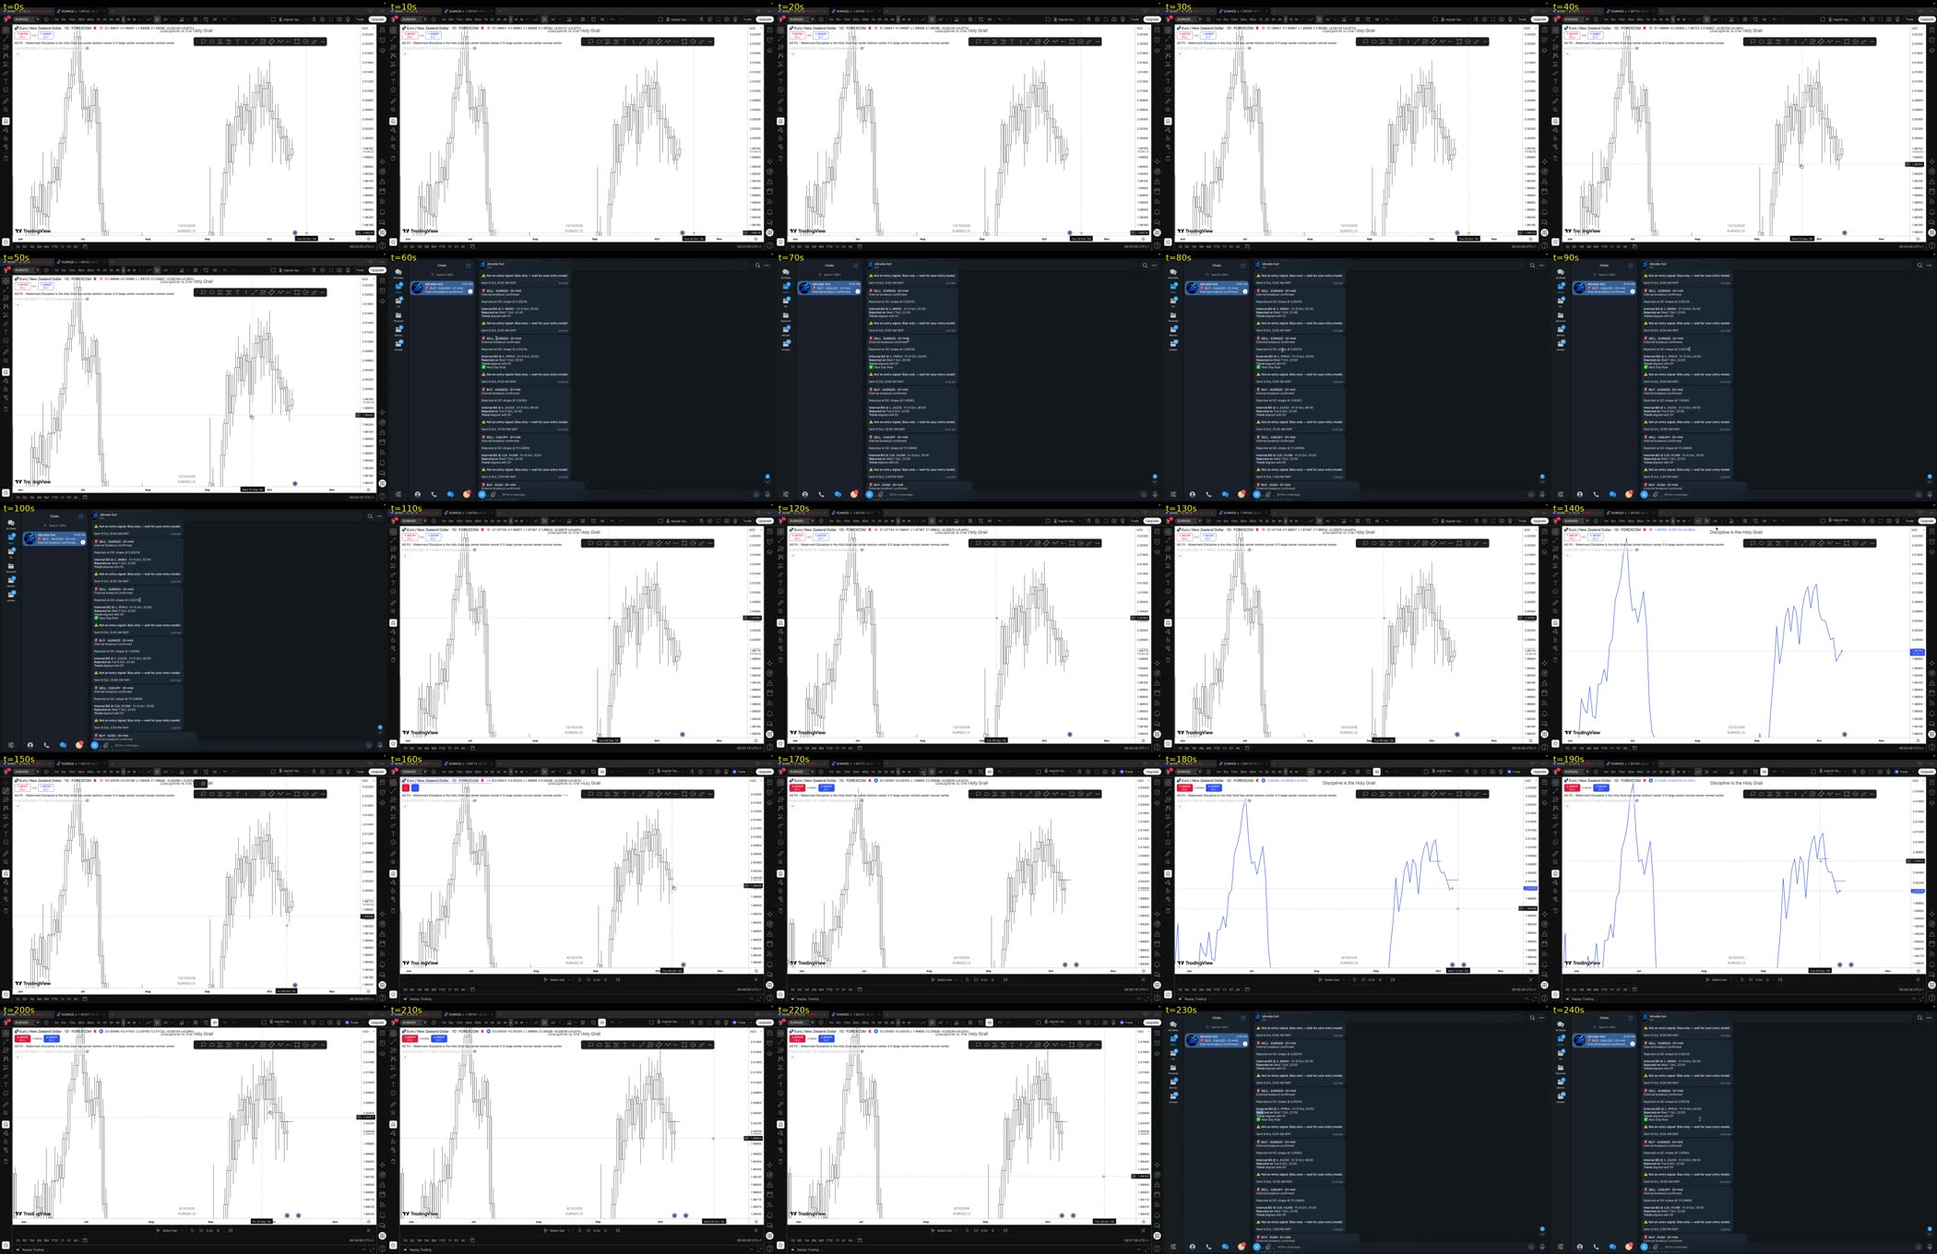
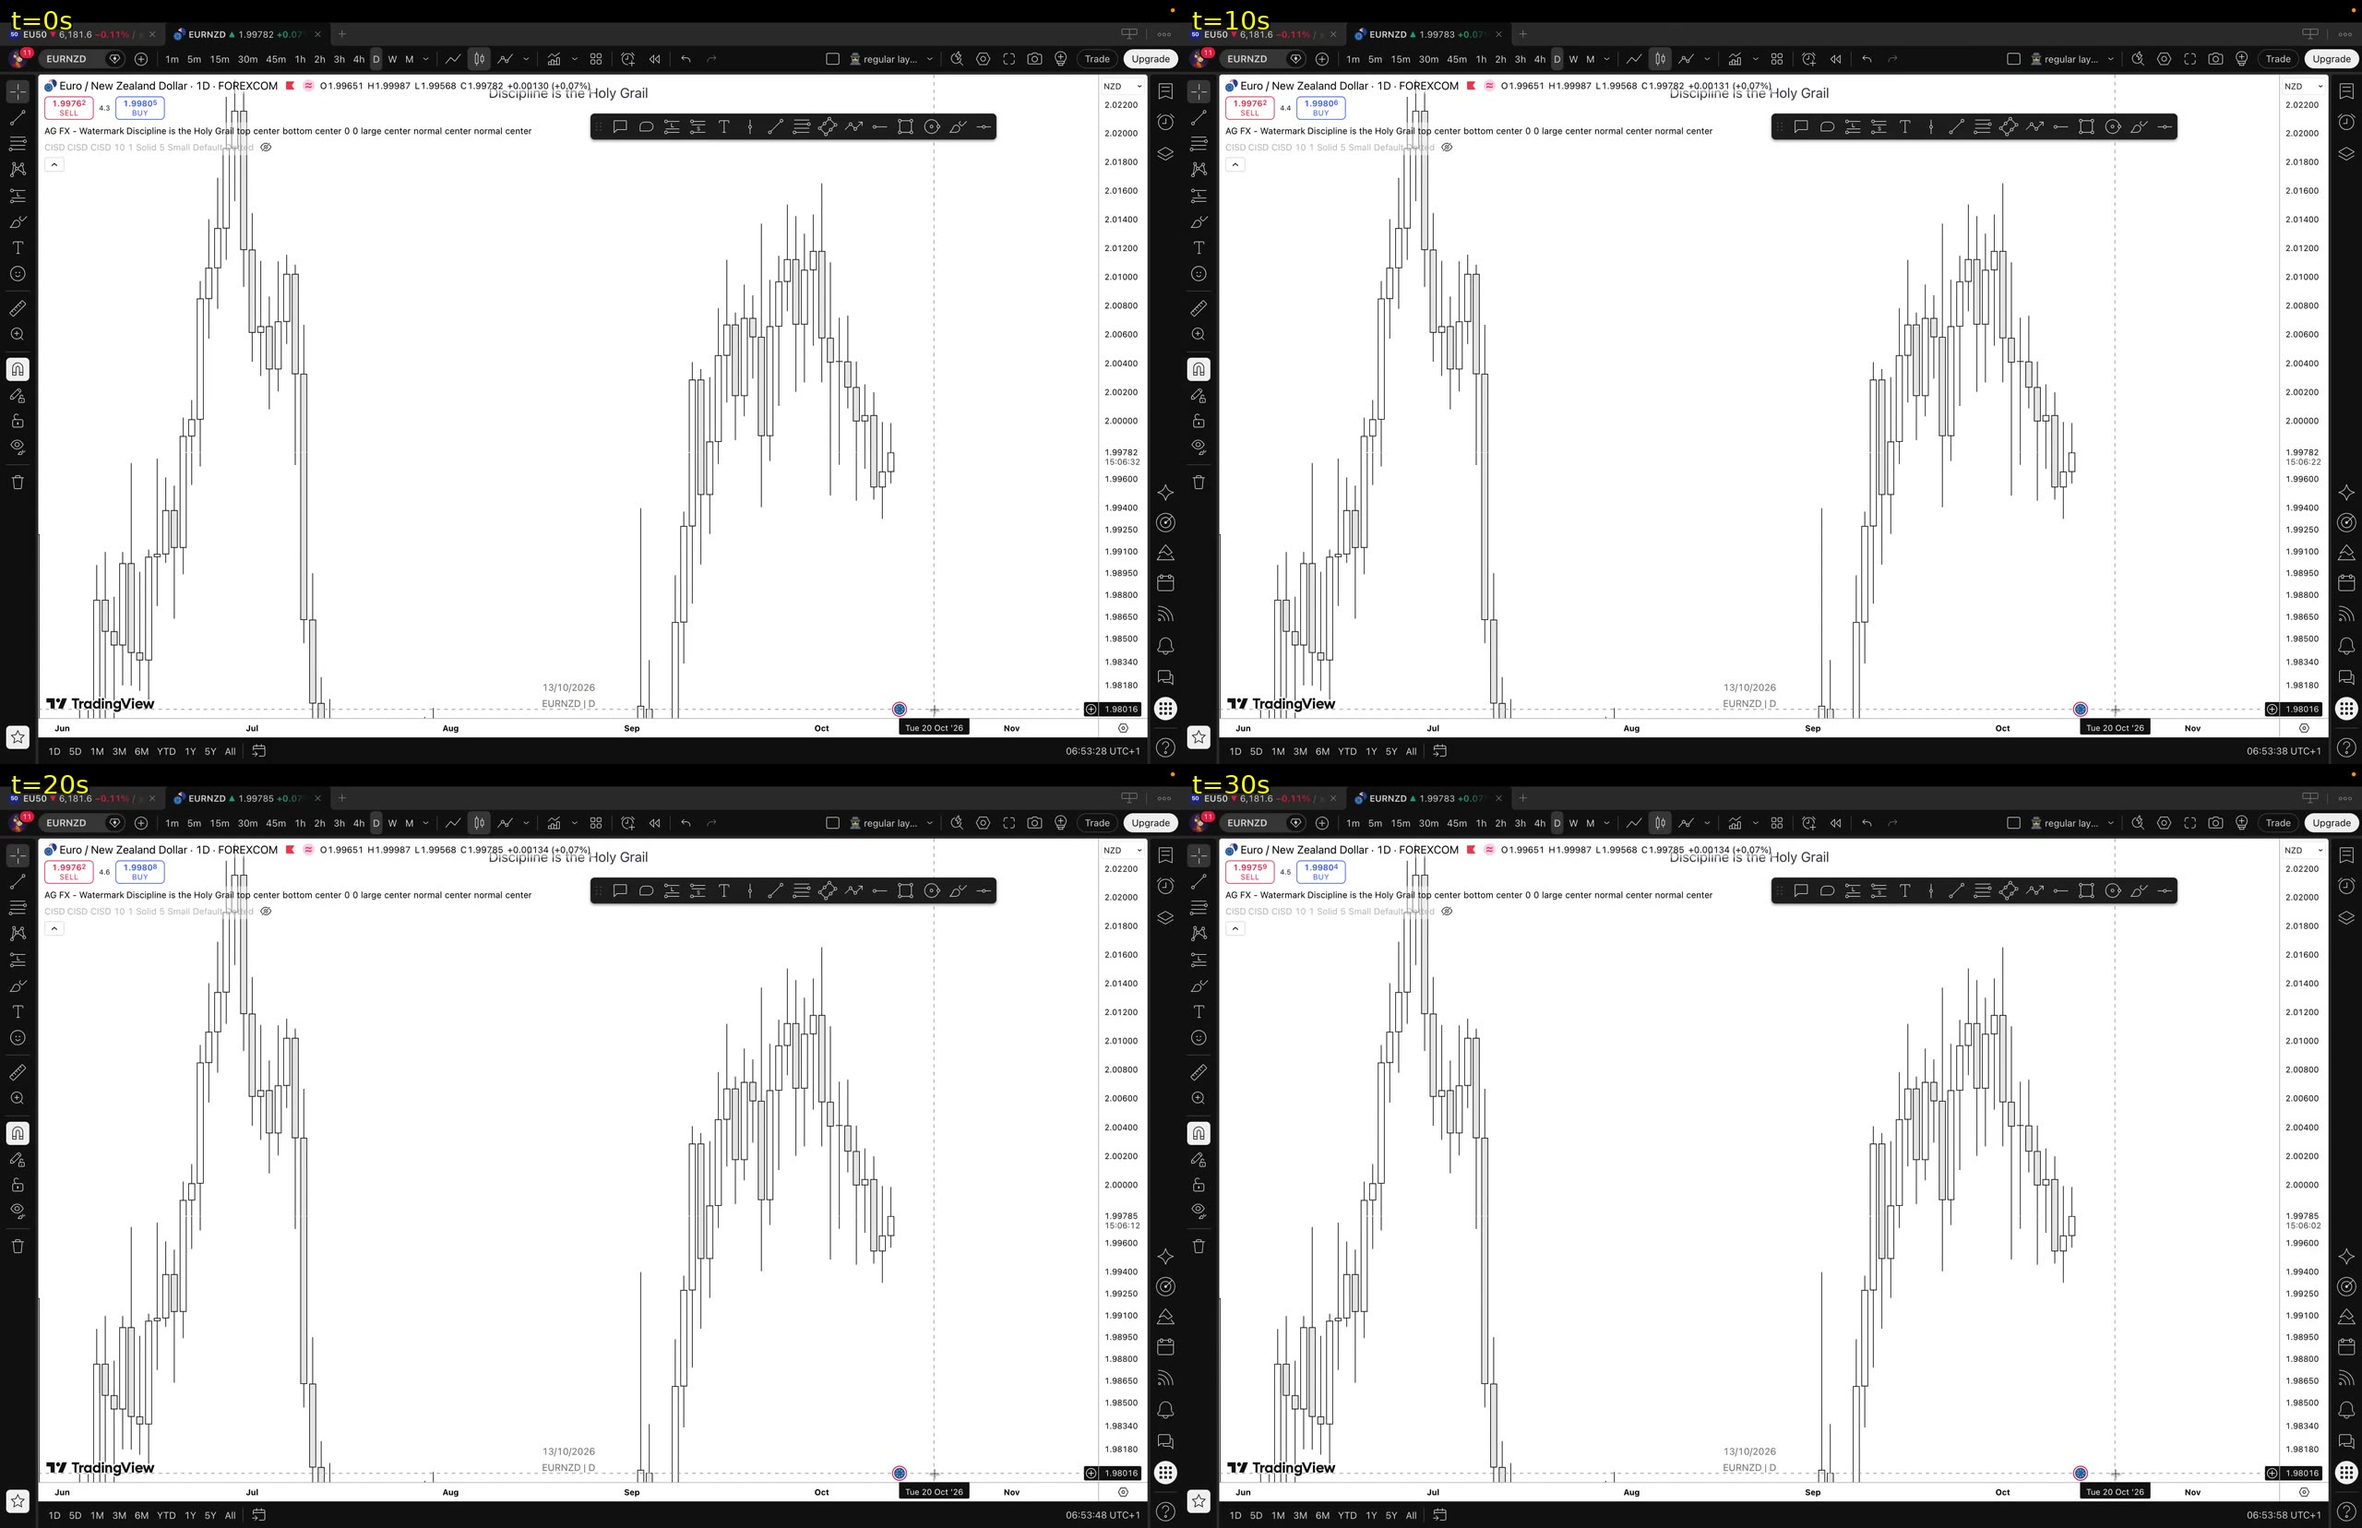
Higher-resolution contact sheets (1280px)

diff --git a/knowledge-base/frames/kevin-devt-building-the-slk-bias-bot-short-basic-video-on-how-to-use-the-slk-bias-bot-slkradar-showing-a-rqp8f2/index.md b/knowledge-base/frames/kevin-devt-building-the-slk-bias-bot-short-basic-video-on-how-to-use-the-slk-bias-bot-slkradar-showing-a-rqp8f2/index.md
@@ -4,8 +4,8 @@ Frame timestamps paired with what is being said over them.
 Times are seconds from the start; the same number is burned
 into the top-left of each frame.
 
-Contact sheets hold 25 frames each, in reading order:
-sheet_001 covers frames 1-25, and so on.
+Contact sheets hold 4 frames each, in reading order:
+sheet_001 covers frames 1-4, and so on.
 
 | time | mm:ss | said over this frame |
 |---:|---|---|
